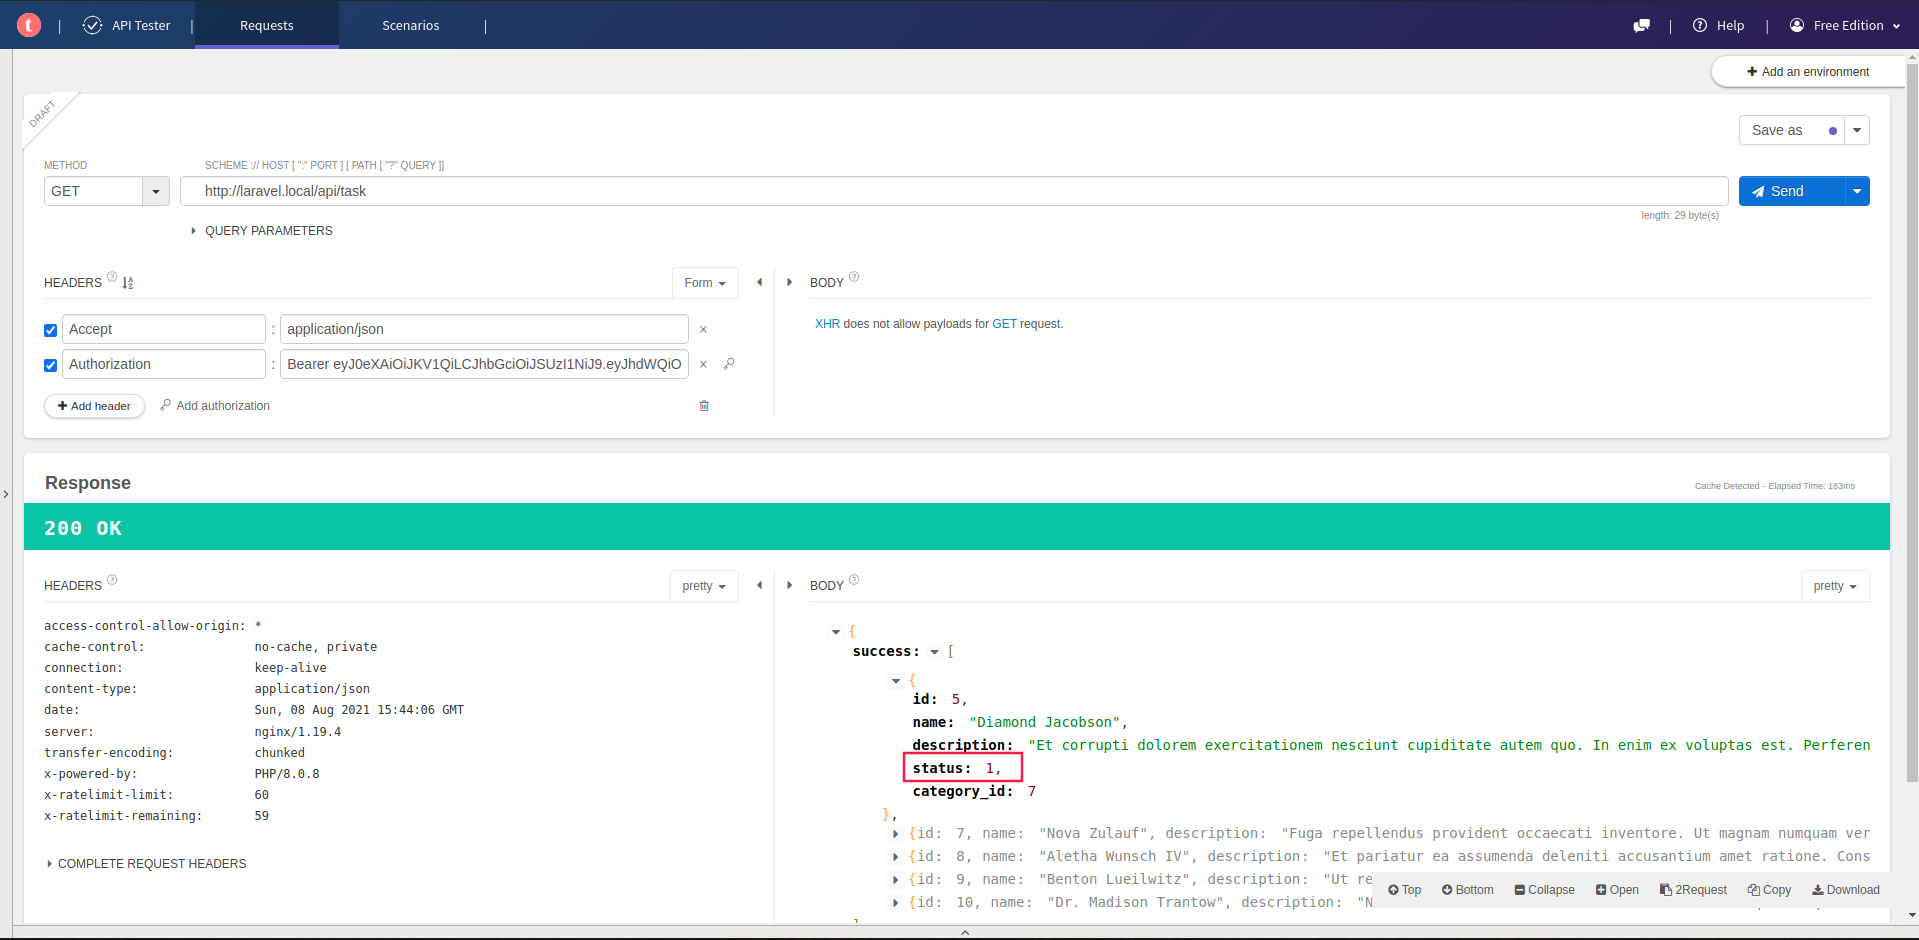
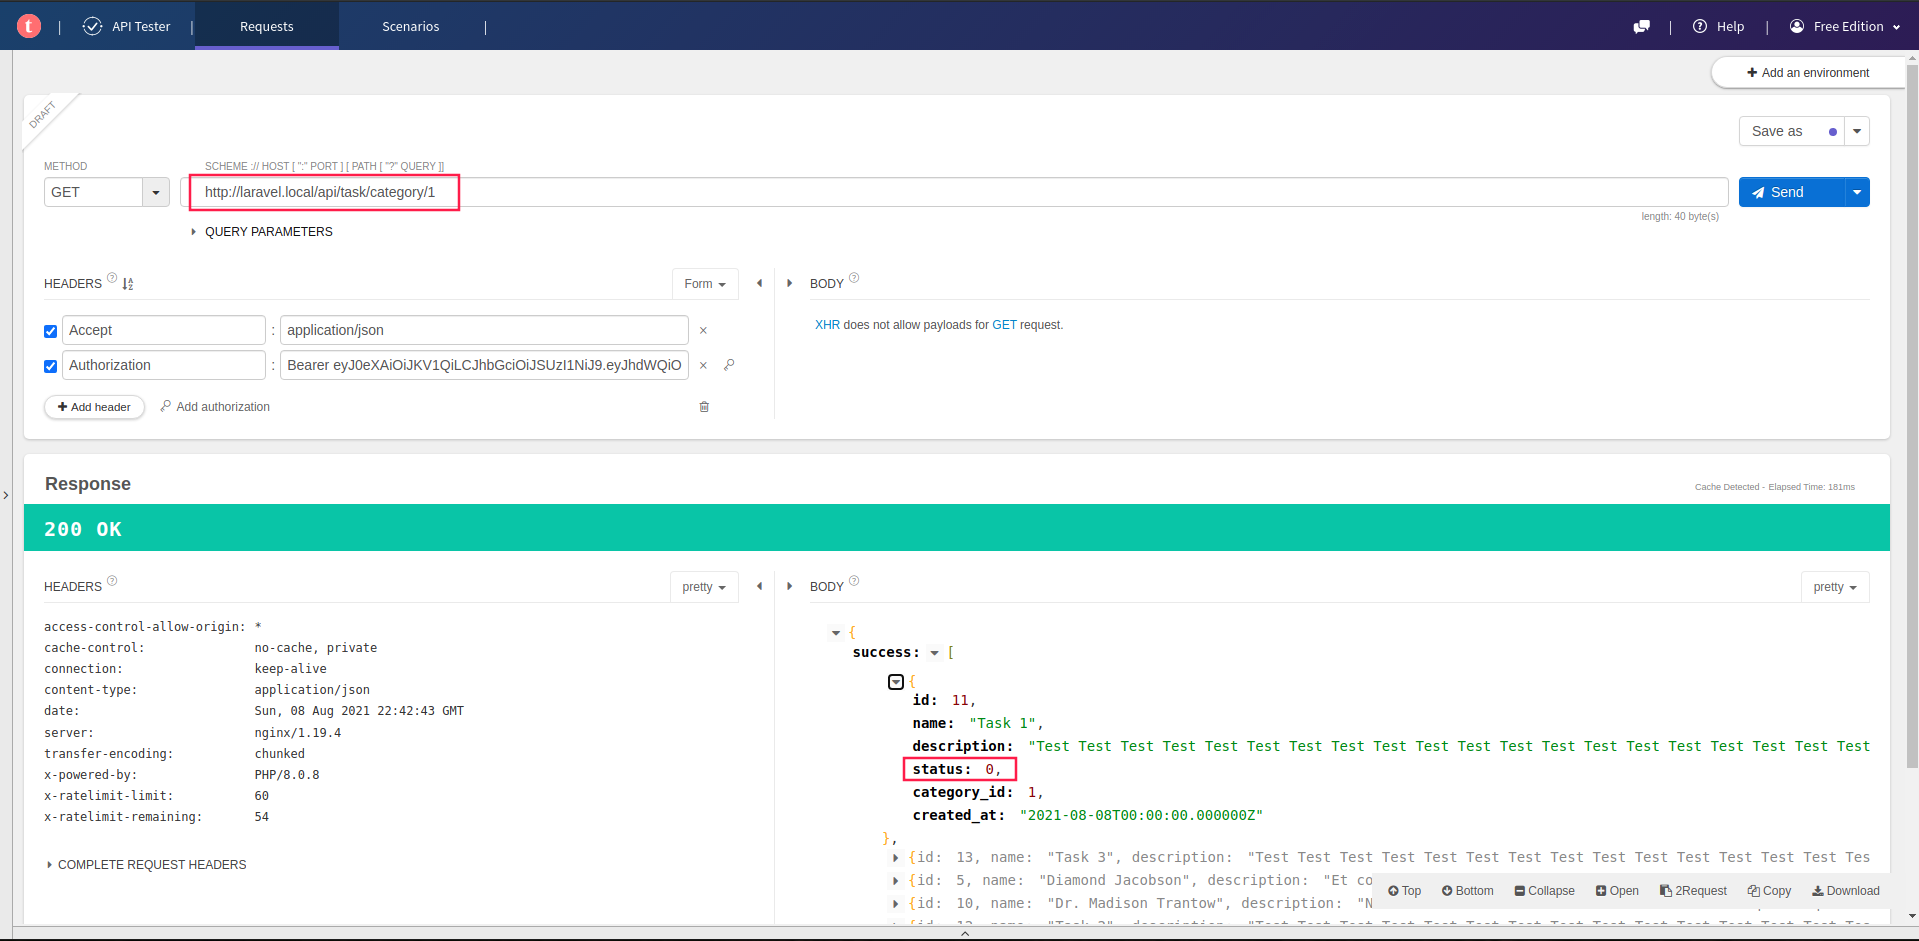
Fixed models

diff --git a/src/app/Models/Task.php b/src/app/Models/Task.php
@@ -2,57 +2,49 @@
 
 namespace App\Models;
 
-use Carbon\Carbon;
 use Illuminate\Database\Eloquent\Factories\HasFactory;
 use Illuminate\Database\Eloquent\Model;
-use Illuminate\Support\Facades\Cache;
-use Illuminate\Support\Facades\Http;
+use Illuminate\Support\Facades\Auth;
 
 class Task extends Model
 {
     use HasFactory;
 
-    public const TASK_COMPLETED = 1;
-    public const CACHE_LIFE_TIME_IN_MINUTES = '1440';
-    public const CACHE_KEY = 'tasks_for_user';
-
     protected $table = 'task';
-
-    public function getUniq(User $user) : array
-    {
-        $existTask = $user->getTasks()->select('id')->where('status', '=', self::TASK_COMPLETED)->get();
-        $existTaskIds = [];
-        foreach ($existTask as $task) {
-            $existTaskIds[] = $task->id;
-        }
-
-        $cacheKey = sprintf('%s_%s', self::CACHE_KEY, $user->id);
-        if (!Cache::has($cacheKey)) {
-            $newTasksIds = Task::inRandomOrder()->select('id')->whereNotIn('id', $existTaskIds)->limit(5)->get()->toArray();
-            $newTasksIds = array_map(function ($task) {
-                return $task['id'] ?? '';
-            }, $newTasksIds);
-
-            Cache::add($cacheKey, json_encode($newTasksIds), Carbon::now()->addMinutes(self::CACHE_LIFE_TIME_IN_MINUTES));
-        } else {
-            $newTasksIds = json_decode(Cache::get($cacheKey));
-        }
-
-        return Task::query()
-            ->select(['id' => 'task.id', 'name', 'description', 'status', 'category_id'])
-            ->leftJoin('user_task', 'task.id', '=', 'user_task.task_id')
-            ->whereIn('task.id', $newTasksIds)
-            ->get()
-            ->all();
-    }
 
     public function change(int $id) : self
     {
-        return Task::inRandomOrder()
+        $user = Auth::user();
+        $currentTasksIds = array_map(function ($task) {
+            return $task->id;
+        }, $user->getTodayTask());
+
+        $newTask = Task::inRandomOrder()
             ->select(['id' => 'task.id', 'name', 'description', 'status', 'category_id'])
             ->leftJoin('user_task', 'task.id', '=', 'user_task.task_id')
-            ->whereNotIn('task.id', [$id])
+            ->whereNotIn('task.id', $currentTasksIds)
             ->get()
             ->first();
+
+        UserTask::query()->where([
+            'task_id' => $id,
+            'user_id' => Auth::user()->id
+        ])->update(['task_id' => $newTask->id]);
+
+        return $newTask;
+    }
+
+    public function getByCategoryId(int $categoryId, int $limit = null) : array
+    {
+        $tasks = Task::inRandomOrder()
+            ->select(['id' => 'task.id', 'name', 'description', 'status', 'category_id'])
+            ->leftJoin('user_task', 'task.id', '=', 'user_task.task_id')
+            ->where('category_id', $categoryId);
+
+        if ($limit !== null) {
+            $tasks->limit($limit);
+        }
+
+        return  $tasks->get()->all();
     }
 }

diff --git a/src/app/Models/User.php b/src/app/Models/User.php
@@ -2,7 +2,6 @@
 
 namespace App\Models;
 
-use Illuminate\Contracts\Auth\MustVerifyEmail;
 use Illuminate\Database\Eloquent\Factories\HasFactory;
 use Illuminate\Foundation\Auth\User as Authenticatable;
 use Illuminate\Notifications\Notifiable;
@@ -42,8 +41,32 @@ class User extends Authenticatable
         'email_verified_at' => 'datetime',
     ];
 
-    public function getTasks()
+    public function getTodayTasksByCategory(int $categoryId, int $limit = null) : array
     {
-        return $this->hasMany(UserTask::class);
+        $todayTasks = $this->getTodayTask();
+
+        if (empty($todayTasks)) {
+            $todayTasks = (new Task())->getByCategoryId($categoryId, $limit);
+            foreach ($todayTasks as $task) {
+                $userTask = new UserTask();
+                $userTask->setAttribute('user_id', $this->id);
+                $userTask->setAttribute('task_id', $task->id);
+                $userTask->setAttribute('status', UserTask::TASK_NOT_COMPLETED);
+                $userTask->save();
+            }
+        }
+
+       return $todayTasks;
+    }
+
+    public function getTodayTask() : array
+    {
+        return UserTask::query()
+            ->select(['id' => 'task.id', 'name', 'description', 'status', 'category_id', 'user_task.created_at'])
+            ->leftJoin('task', 'task.id', '=', 'user_task.task_id')
+            ->where([
+                'user_id' => $this->id,
+                'user_task.created_at' => (new \DateTime())->format('Y-m-d')
+            ])->get()->all();
     }
 }

diff --git a/src/routes/api.php b/src/routes/api.php
@@ -1,6 +1,5 @@
 <?php
 
-use Illuminate\Http\Request;
 use Illuminate\Support\Facades\Route;
 use App\Http\Controllers\API\TaskController;
 use App\Http\Controllers\API\UserController;
@@ -19,7 +18,6 @@ use App\Http\Controllers\API\UserController;
 Route::post('login', [UserController::class, 'login'])->name('login');
 Route::post('register', [UserController::class, 'register']);
 
-Route::get('/task', [TaskController::class, 'get'])->middleware('auth:api');;
-Route::get('/task/{category_id}', [TaskController::class, 'getTaskByCategory'])->middleware('auth:api');;
-Route::put('/task/status', [TaskController::class, 'setStatus'])->middleware('auth:api');;
-Route::get('/task/change/{id}', [TaskController::class, 'change'])->middleware('auth:api');;
+Route::get('/task/category/{category_id}', [TaskController::class, 'getTasksByCategory'])->middleware('auth:api');
+Route::put('/task/status', [TaskController::class, 'setStatus'])->middleware('auth:api');
+Route::get('/task/change/{id}', [TaskController::class, 'change'])->middleware('auth:api');

diff --git a/src/app/Http/Controllers/API/TaskController.php b/src/app/Http/Controllers/API/TaskController.php
@@ -13,12 +13,15 @@ use Illuminate\Support\Facades\Validator;
 
 class TaskController extends Controller
 {
+    public const TASK_LIMIT = 5;
+
     /**
+     * @param int $category_id
      * @return JsonResponse
      */
-    public function get() : JsonResponse
+    public function getTasksByCategory(int $category_id) : JsonResponse
     {
-        return response()->json(['success' => (new Task())->getUniq(Auth::user())], 200);
+        return response()->json(['success' => Auth::user()->getTodayTasksByCategory($category_id, self::TASK_LIMIT)], 200);
     }
 
     /**

diff --git a/src/database/migrations/2021_08_04_175006_user_task.php b/src/database/migrations/2021_08_04_175006_user_task.php
@@ -18,7 +18,7 @@ class UserTask extends Migration
             $table->integer('status');
             $table->foreignId('category_id')->unsigned();
             $table->foreignId('task_id')->unsigned();
-            $table->dateTime('created_at');
+            $table->date('created_at');
             $table->dateTime('updated_at');
             $table->foreign('category_id')
                 ->references('id')->on('category')

diff --git a/src/app/Models/UserTask.php b/src/app/Models/UserTask.php
@@ -9,5 +9,8 @@ class UserTask extends Model
 {
     use HasFactory;
 
+    public const TASK_COMPLETED = 1;
+    public const TASK_NOT_COMPLETED = 0;
+
     protected $table = 'user_task';
 }
